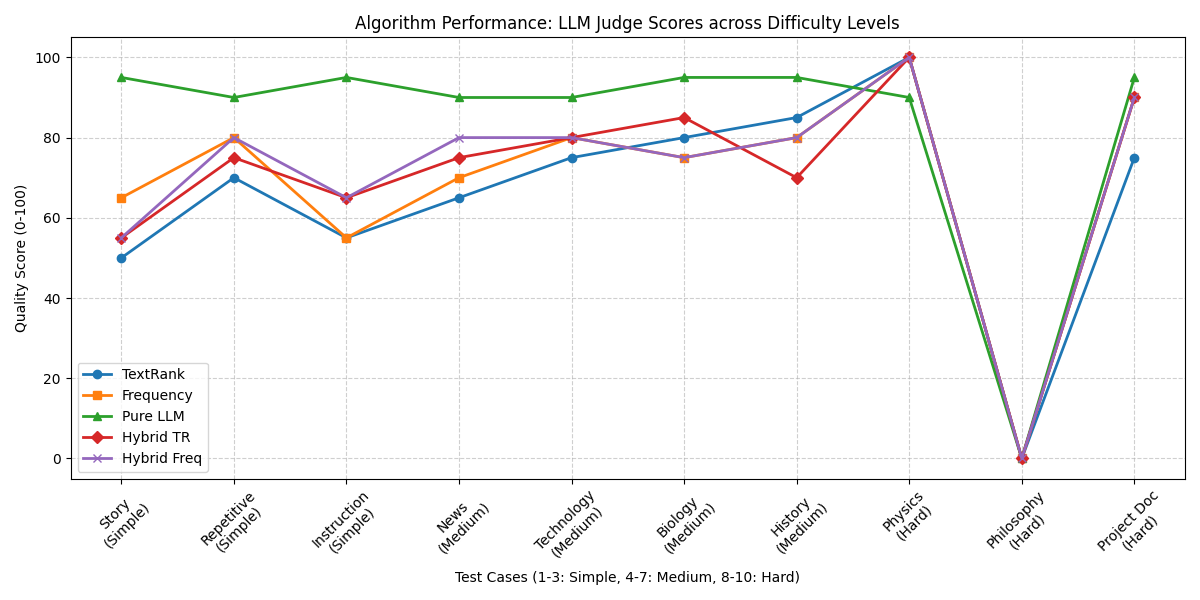
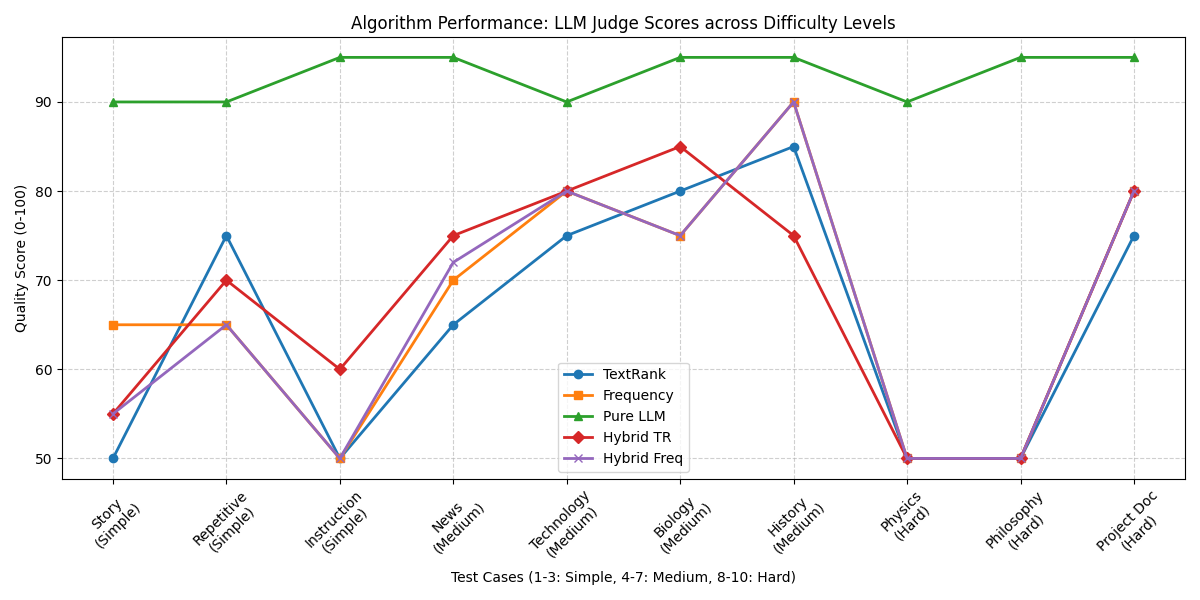
Clean code

diff --git a/tests/test_phase2_scenarios.py b/tests/test_phase2_scenarios.py
@@ -8,14 +8,11 @@ from src.textrank import run_pagerank
 class TestPhase2Scenarios(unittest.TestCase):
 
     def run_pipeline(self, text):
-        """
-        اجرای پایپلاین با اصلاح مهم: حذف قطر اصلی ماتریس (Self-Loops)
-        """
         # 1. Preprocessing
         # پاکسازی فضاهای اضافی متن ورودی
         clean_text = text.strip()
         sentences = split_into_sentences(clean_text)
-        filtered = filter_sentences(sentences, min_length=10)  # کمی سختگیرانهتر
+        filtered = filter_sentences(sentences, min_length=10)
 
         if len(filtered) < 2:
             return filtered, None
@@ -27,17 +24,12 @@ class TestPhase2Scenarios(unittest.TestCase):
         # 3. Graph Building
         sim_matrix = np.dot(matrix, matrix.T)
 
-        # --- اصلاح حیاتی: حذف ارتباط جمله با خودش ---
-        # اگر این کار را نکنیم، الگوریتم PageRank درست همگرا نمیشود
         np.fill_diagonal(sim_matrix, 0)
 
         # 4. PageRank
         scores = run_pagerank(sim_matrix, d=0.85)
         return filtered, scores
 
-    # ==========================================
-    # 1. تستهای ورودی ساده
-    # ==========================================
     def test_01_simple_topic_dominance(self):
         """سناریو ۱: جملات مرتبط باید امتیاز متفاوت بگیرند."""
         text = """
@@ -47,8 +39,6 @@ class TestPhase2Scenarios(unittest.TestCase):
         """
         sentences, scores = self.run_pipeline(text)
 
-        # چون جمله موز کاملاً بی ربط است، باید امتیازش با بقیه فرق داشته باشد
-        # یا واریانس امتیازها نباید صفر باشد (یعنی همه 1.0 نباشند)
         variance = np.var(scores)
         self.assertGreater(variance, 0.0, "Scores should not be identical (all 1.0).")
 
@@ -71,9 +61,7 @@ class TestPhase2Scenarios(unittest.TestCase):
         """
         sentences, scores = self.run_pipeline(text)
 
-        # تحلیل: مطمئن میشویم که امتیازها محاسبه شدهاند
         self.assertEqual(len(scores), 4)
-        # مطمئن میشویم امتیازها "تخت" نیستند (یعنی رتبهبندی اتفاق افتاده)
         self.assertGreater(np.std(scores), 0)
 
     def test_04_hard_technical_terms(self):
@@ -86,11 +74,8 @@ class TestPhase2Scenarios(unittest.TestCase):
         """
         sentences, scores = self.run_pipeline(text)
 
-        # چک پایداری: امتیازها نباید NaN باشند
         self.assertFalse(np.any(np.isnan(scores)))
 
-        # تحلیل: جمله اول یا دوم (که کلمه NLP/Processing دارند) معمولاً باید امتیاز خوبی بگیرند.
-        # اینجا فقط چک میکنیم که سیستم کار کرده و خروجی داده.
         self.assertIsNotNone(scores)
 
     # ==========================================
@@ -121,14 +106,11 @@ class TestPhase2Scenarios(unittest.TestCase):
         """
         sentences, scores = self.run_pipeline(text)
 
-        # تحلیل تئوری: وقتی همه جملات کپی هستند، امتیازها باید برابر باشند.
-        # واریانس باید بسیار نزدیک به صفر باشد.
         variance = np.var(scores)
         self.assertAlmostEqual(variance, 0.0, places=5)
 
     def test_10_stability_check(self):
         """سناریو ۱۰: پایداری الگوریتم (اجرای روی متن واقعی)."""
-        # متن واقعی استفاده میکنیم تا فیلتر نشود
         text = """
         Stability testing verifies that the system works consistently.
         Running the algorithm twice should yield the same results.
@@ -137,27 +119,21 @@ class TestPhase2Scenarios(unittest.TestCase):
         _, scores1 = self.run_pipeline(text)
         _, scores2 = self.run_pipeline(text)
 
-        # انتظار: دو بار اجرا روی یک متن باید دقیقاً یک خروجی بدهد
         np.testing.assert_array_almost_equal(scores1, scores2)
 
     def test_07_edge_single_sentence(self):
         """سناریو ۷: متن فقط شامل یک جمله است (گراف تشکیل نمیشود)."""
         text = "Only one sentence exists in this entire text."
-        # وقتی فقط یک جمله داریم، تابع باید تشخیص دهد که گراف قابل ساخت نیست
         sentences, scores = self.run_pipeline(text)
 
-        # انتظار: خروجی اسکور باید None باشد (طبق لاجیک کد ما)
         self.assertIsNone(scores)
 
     def test_09_worst_no_punctuation(self):
         """سناریو ۹: متن طولانی بدون نقطه (چالش Tokenizer)."""
-        # این متن هیچ نقطهای ندارد، پس باید به عنوان ۱ جمله تشخیص داده شود
         text = "This is a very long text without any dots so it should be treated as one single sentence by the splitter even if it is long"
         sentences, scores = self.run_pipeline(text)
 
-        # انتظار: اسپلیتر باید کل این را ۱ جمله ببیند
         self.assertEqual(len(sentences), 1)
-        # چون ۱ جمله است، گراف تشکیل نمیشود و اسکور نداریم
         self.assertIsNone(scores)
 
 

diff --git a/analysis.py b/analysis.py
@@ -12,9 +12,6 @@ from src.classic_strategies import get_strategy
 # 1. Helper Function to Generate Synthetic Data
 # ---------------------------------------------------------
 def generate_synthetic_sentences(num_sentences: int) -> List[str]:
-    """
-    تولید جملات مصنوعی برای تست استرس الگوریتم.
-    """
     base_sentences = [
         "Software architecture has evolved significantly over the past few decades.",
         "Microservices offer advantages like resilience and independent deployment.",
@@ -34,9 +31,7 @@ def generate_synthetic_sentences(num_sentences: int) -> List[str]:
 # 2. Benchmarking Function (Updated for Comparison)
 # ---------------------------------------------------------
 def run_comparative_benchmark(config, sizes: List[int], strategies: List[str]) -> Dict[str, List[float]]:
-    """
-    اجرای بنچمارک روی لیست استراتژیها برای مقایسه عملکرد.
-    """
+
     results = {name: [] for name in strategies}
     logger = setup_logger("Benchmark")
     
@@ -72,13 +67,8 @@ def run_comparative_benchmark(config, sizes: List[int], strategies: List[str]) -
 
     return results
 
-# ---------------------------------------------------------
-# 3. Plotting and Saving Results (Comparative)
-# ---------------------------------------------------------
+
 def save_comparative_plot(sizes, results, output_dir):
-    """
-    رسم نمودار مقایسهای استراتژیها و منحنیهای تئوری.
-    """
     plt.figure(figsize=(12, 7))
     
     colors = {'textrank': 'blue', 'frequency': 'green', 'greedy': 'orange'}
@@ -130,9 +120,7 @@ def save_comparative_plot(sizes, results, output_dir):
     print(f"\n[Success] Comparative plot saved to: {output_path}")
     plt.close()
 
-# ---------------------------------------------------------
-# 4. Main Execution
-# ---------------------------------------------------------
+
 if __name__ == "__main__":
     # Load Config
     try:
@@ -146,7 +134,6 @@ if __name__ == "__main__":
         }
 
     # Define Test Cases (Input Sizes)
-    # تا 500 جمله برای دیدن تفاوت خطی و مربعی کافی است
     input_sizes = [10, 50, 100, 200, 300, 500, 800] 
     
     # Define Strategies to Compare

diff --git a/src/classic_strategies.py b/src/classic_strategies.py
@@ -1,4 +1,3 @@
-# src/classic_strategies.py
 import numpy as np
 from abc import ABC, abstractmethod
 from typing import List
@@ -45,15 +44,11 @@ class FrequencyStrategy(SummarizationStrategy):
     """
     def calculate_scores(self, sentences: List[str], config: dict) -> np.ndarray:
         vectorizer = ManualTFIDF()
-        # استفاده از متد fit_transform برای محاسبه TF و واژگان
         _ = vectorizer.fit_transform(sentences)
         
-        # محاسبه فراوانی کلی هر کلمه در کل داکیومنت (از روی vocab و شمارش ساده)
-        # برای سادگی از tf_matrix داخلی vectorizer استفاده نمیکنیم و مستقیم میشماریم
         word_freq = {}
         tokenized_sentences = [vectorizer._tokenize(s) for s in sentences]
         
-        # ساخت جدول فراوانی
         all_tokens = [w for s in tokenized_sentences for w in s]
         total_tokens = len(all_tokens)
         for w in all_tokens:
@@ -64,13 +59,11 @@ class FrequencyStrategy(SummarizationStrategy):
             if not tokens:
                 scores.append(0.0)
                 continue
-            # امتیاز = مجموع احتمال وقوع کلمات / طول جمله
             sent_score = sum(word_freq.get(w, 0) for w in tokens) / len(tokens)
             scores.append(sent_score)
             
         return np.array(scores)
 
-# Factory برای ساخت راحت کلاسها
 def get_strategy(method_name: str) -> SummarizationStrategy:
     strategies = {
         'textrank': TextRankStrategy(),

diff --git a/tests/test_vectorization.py b/tests/test_vectorization.py
@@ -12,23 +12,17 @@ class TestTFIDF(unittest.TestCase):
         """بررسی ابعاد ماتریس خروجی"""
         sentences = ["This is one.", "This is two."]
         tfidf_matrix = self.vectorizer.fit_transform(sentences)
-        # ابعاد باید (2, 4) باشد چون 4 کلمه یکتا داریم (this, is, one, two)
         self.assertEqual(tfidf_matrix.shape, (2, 4))
 
     def test_worst_case_repeated_words(self):
         """(Worst Case) جملهای با کلمات کاملاً تکراری"""
-        # در TF، اگر کلمه زیاد تکرار شود امتیاز بالا میگیرد، اما در IDF اگر در همه جا باشد کم میشود.
         sentences = ["test test test", "test test test"]
         tfidf_matrix = self.vectorizer.fit_transform(sentences)
-        # چون کلمه "test" در تمام جملات هست، IDF باید 0 شود (log(2/2)=0).
-        # پس کل ماتریس باید صفر باشد.
         self.assertTrue(np.allclose(tfidf_matrix, 0))
 
     def test_empty_input(self):
         """(Edge Case) لیست جملات خالی"""
         sentences = []
-        # اینجا باید مدیریت کنیم که ارور ندهد یا ماتریس خالی برگرداند
-        # بسته به ایمپلمنتیشن شما، ممکن است نیاز به try-except باشد
         try:
             matrix = self.vectorizer.fit_transform(sentences)
             self.assertEqual(matrix.shape[0], 0)

diff --git a/src/textrank.py b/src/textrank.py
@@ -1,4 +1,3 @@
-# src/textrank.py
 import numpy as np
 
 def run_pagerank(graph: np.ndarray, d: float = 0.85, max_iter: int = 50, tol: float = 1e-4) -> np.ndarray:
@@ -8,12 +7,7 @@ def run_pagerank(graph: np.ndarray, d: float = 0.85, max_iter: int = 50, tol: fl
     """
     N = graph.shape[0]
     
-    # Initialize scores to 1.0 (or 1/N)
     scores = np.ones(N)
-    
-    # Pre-calculate total output weights for each node (sum of columns)
-    # Note: In undirected text graphs, adjacency is usually symmetric.
-    # W_ji is weight from j to i.
     
     for iteration in range(max_iter):
         prev_scores = np.copy(scores)
@@ -21,17 +15,14 @@ def run_pagerank(graph: np.ndarray, d: float = 0.85, max_iter: int = 50, tol: fl
         for i in range(N):
             sum_neighbors = 0
             
-            # Find neighbors pointing to i (in undirected, just row/col i)
-            # We iterate over all j to find incoming edges to i
             for j in range(N):
-                if graph[j, i] > 0: # If there is an edge from j to i
+                if graph[j, i] > 0:
                     weight_ji = graph[j, i]
                     total_weight_j = np.sum(graph[j])
                     
                     if total_weight_j > 0:
                          sum_neighbors += (weight_ji / total_weight_j) * prev_scores[j]
             
-            # PageRank Formula: (1-d) + d * sum(...)
             scores[i] = (1 - d) + (d * sum_neighbors)
             
         # Check convergence

diff --git a/src/utils.py b/src/utils.py
@@ -1,4 +1,3 @@
-# src/utils.py
 import yaml
 import os
 import logging
@@ -9,15 +8,12 @@ def load_config(config_path: str = None) -> Dict[str, Any]:
     Loads the YAML configuration file.
     Uses absolute path relative to the project root to avoid FileNotFoundError.
     """
-    # اگر مسیری داده نشد، مسیر پیشفرض را به صورت هوشمند بساز
     if config_path is None:
-        # این فایل در src/utils.py است. دو مرحله عقب میرویم تا به ریشه پروژه برسیم
-        current_dir = os.path.dirname(os.path.abspath(__file__)) # .../src
-        project_root = os.path.dirname(current_dir)              # .../algorithm
+        current_dir = os.path.dirname(os.path.abspath(__file__))
+        project_root = os.path.dirname(current_dir)
         config_path = os.path.join(project_root, "config", "config.yaml")
 
     if not os.path.exists(config_path):
-        # چاپ مسیر کامل برای دیباگ راحتتر
         raise FileNotFoundError(f"Config file not found at: {os.path.abspath(config_path)}")
     
     with open(config_path, 'r', encoding='utf-8') as file:

diff --git a/tests/test_textrank.py b/tests/test_textrank.py
@@ -7,14 +7,10 @@ class TestPageRank(unittest.TestCase):
 
     def test_convergence_theoretical(self):
         """(Theoretical Comparison) تست همگرایی روی یک گراف ساده"""
-        # یک گراف ۲ گرهای که کاملاً به هم وصلند
-        # [0 1]
-        # [1 0]
         graph = np.array([[0, 1], [1, 0]])
 
         scores = run_pagerank(graph, d=0.85)
 
-        # در یک گراف متقارن کامل، امتیازها باید برابر باشند
         self.assertAlmostEqual(scores[0], scores[1], places=4)
 
     def test_disconnected_graph(self):
@@ -22,7 +18,6 @@ class TestPageRank(unittest.TestCase):
         graph = np.zeros((3, 3))
         scores = run_pagerank(graph, d=0.85)
 
-        # وقتی هیچ یالی نیست، همه باید امتیاز پایه (1-d) را بگیرند
         expected_score = 1 - 0.85
         for score in scores:
             self.assertAlmostEqual(score, expected_score, places=4)

diff --git a/tests/test_preprocessing.py b/tests/test_preprocessing.py
@@ -21,12 +21,12 @@ class TestPreprocessing(unittest.TestCase):
         """(Hard Input) تشخیص مخففها مثل Mr. نباید جمله را بشکند"""
         text = "Mr. Smith went to Washington."
         result = split_into_sentences(text)
-        self.assertEqual(len(result), 1)  # نباید بعد از Mr. بشکند
+        self.assertEqual(len(result), 1)
 
     def test_filter_short_sentences(self):
         """حذف جملات خیلی کوتاه"""
         sentences = ["Hi", "This is a valid sentence.", "No"]
-        # فرض کنیم مینیمم طول ۱۰ است
+        
         result = filter_sentences(sentences, min_length=10)
         self.assertEqual(len(result), 1)
         self.assertEqual(result[0], "This is a valid sentence.")

diff --git a/evaluation.py b/evaluation.py
@@ -9,9 +9,7 @@ from src.classic_strategies import get_strategy
 from src.llm_oracle import LLMOracle
 from src.hybrid_merge import HybridMerger
 
-# ---------------------------------------------------------
-# 1. Hardcoded Test Cases (Simple to Hard)
-# ---------------------------------------------------------
+
 TEST_CASES = [
     # --- LEVEL 1-3: SIMPLE ---
     {
@@ -94,7 +92,6 @@ class SummarizationBenchmark:
         summary_count = min(len(sentences), self.config['hybrid']['final_summary_count'])
 
         # --- A. Pure LLM ---
-        # Cache LLM summary because we need it for Hybrid too
         llm_summary_text = self.oracle.get_abstractive_summary(text)
         candidates['Pure LLM'] = llm_summary_text
 

diff --git a/src/preprocessing.py b/src/preprocessing.py
@@ -1,20 +1,14 @@
-# src/preprocessing.py
 import nltk
 from typing import List
 
-# --- بخش اصلاح شده برای دانلود خودکار ---
-# چک کردن و دانلود پکیجهای ضروری NLTK
 required_resources = ['punkt', 'punkt_tab']
 
 for resource in required_resources:
     try:
-        # سعی کن پیداش کنی
         nltk.data.find(f'tokenizers/{resource}')
     except LookupError:
-        # اگر نبود دانلودش کن
         print(f">> Downloading missing NLTK resource: {resource}...")
         nltk.download(resource)
-# ----------------------------------------
 
 def split_into_sentences(text: str) -> List[str]:
     """

diff --git a/src/llm_oracle.py b/src/llm_oracle.py
@@ -20,7 +20,6 @@ class LLMOracle:
         if self.mode == 'mock':
             return
 
-        # بررسی پیشنیازها
         if genai is None:
             raise ImportError("Please install `google-generativeai` package.")
 
@@ -29,7 +28,6 @@ class LLMOracle:
             print(">> [Warning] API Key not found. LLM Oracle might fail.")
             return
 
-        # کانفیگ و ساخت مدل
         genai.configure(
             api_key=api_key,
             transport='rest',

diff --git a/src/hybrid_merge.py b/src/hybrid_merge.py
@@ -1,4 +1,3 @@
-# src/hybrid_merge.py
 import numpy as np
 from sentence_transformers import SentenceTransformer, util
 from typing import List, Dict
